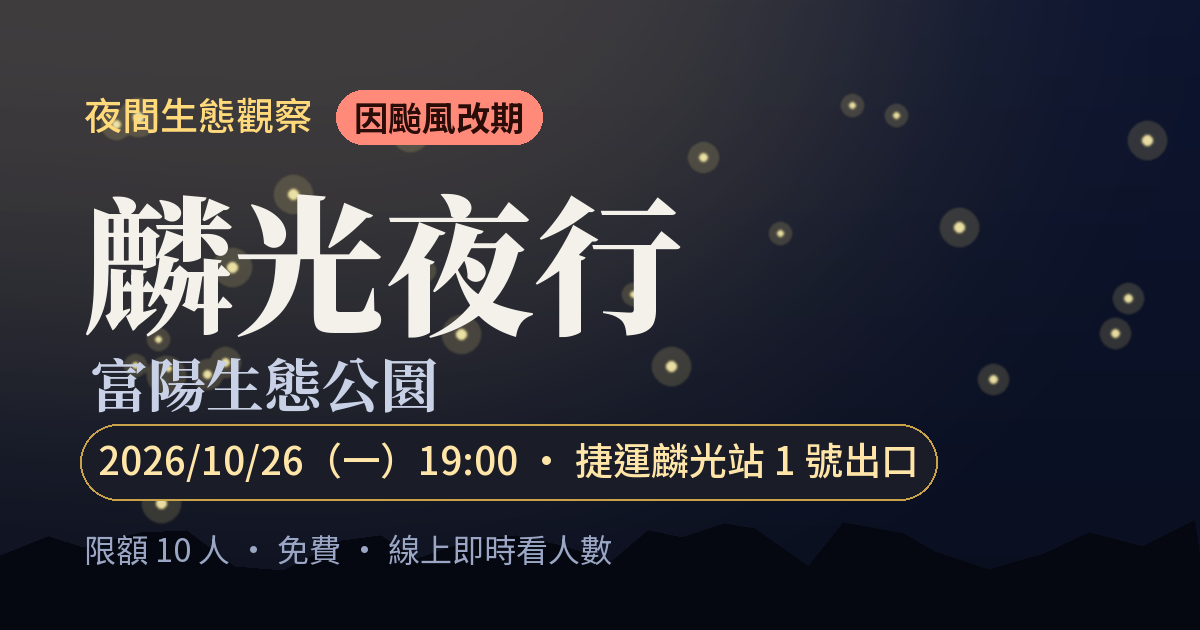
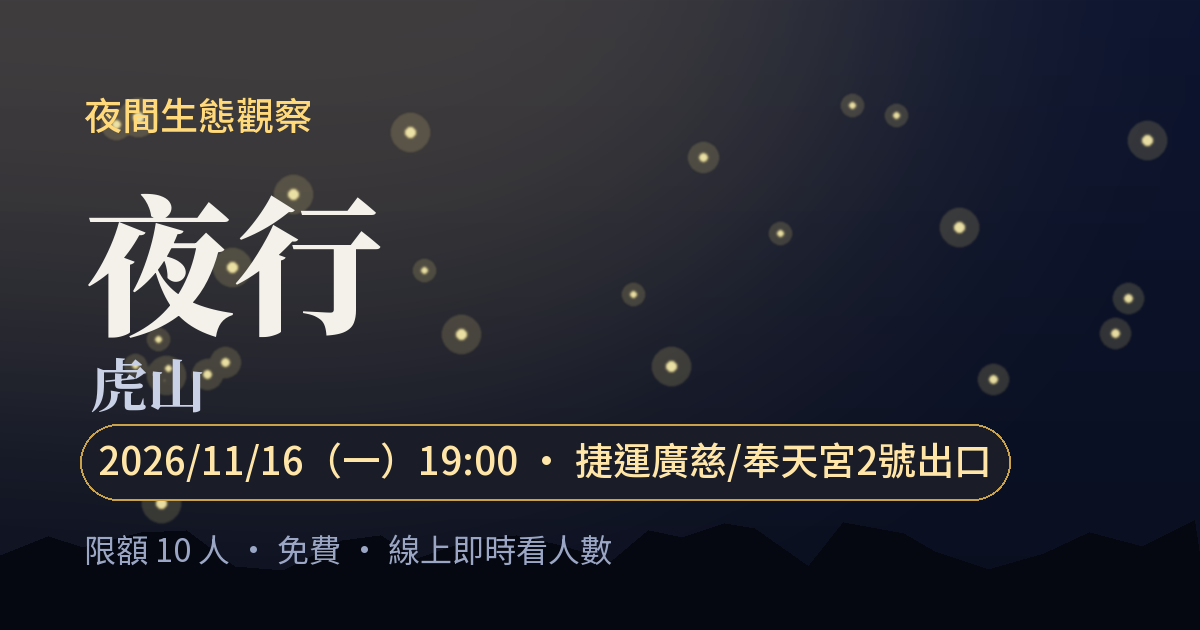
Switch to event 2 (11/16 虎山) and rename the series to 夜行
Regenerate og.png, event.ics and the share text from the sheet, and
update the page's pre-load fallback text to the new meeting point and
route. Rename 麟光夜行 to 夜行 in the page, docs and tool defaults; the
Code.gs defaults are left alone so the backend needs no redeploy.

diff --git a/index.html b/index.html
@@ -3,17 +3,17 @@
 <head>
   <meta charset="utf-8">
   <meta name="viewport" content="width=device-width, initial-scale=1, viewport-fit=cover">
-  <title>麟光夜行・富陽生態公園｜線上報名</title>
-  <meta name="description" content="原 10/23 因颱風改期。捷運麟光站 1 號出口集合，夜訪富陽自然生態公園。限額 10 人・免費・線上報名即時看人數。">
+  <title>夜行・虎山｜線上報名</title>
+  <meta name="description" content="捷運廣慈/奉天宮2號出口集合，夜訪虎山登山步道。限額 10 人・免費・線上報名即時看人數。">
   <meta name="theme-color" content="#0a0f1f">
 
   <!-- LINE / 社群分享預覽（LINE 不會執行 JavaScript，這裡要寫死） -->
   <meta property="og:type" content="website">
-  <meta property="og:site_name" content="麟光夜行">
-  <meta property="og:title" content="麟光夜行・富陽生態公園｜10/26（一）19:00（因颱風改期）">
-  <meta property="og:description" content="原 10/23 因颱風改期。捷運麟光站 1 號出口集合，夜訪富陽自然生態公園。限額 10 人・免費・線上報名即時看人數。">
+  <meta property="og:site_name" content="夜行">
+  <meta property="og:title" content="夜行・虎山｜11/16（一）19:00">
+  <meta property="og:description" content="捷運廣慈/奉天宮2號出口集合，夜訪虎山登山步道。限額 10 人・免費・線上報名即時看人數。">
   <meta property="og:url" content="https://wang-yi-zhang.github.io/night-walk/">
-  <meta property="og:image" content="https://wang-yi-zhang.github.io/night-walk/og.png?v=17ddad83aa">
+  <meta property="og:image" content="https://wang-yi-zhang.github.io/night-walk/og.png?v=d0fdd10c3a">
   <meta property="og:image:width" content="1200">
   <meta property="og:image:height" content="630">
   <meta name="twitter:card" content="summary_large_image">
@@ -32,7 +32,7 @@
     <div class="fireflies" aria-hidden="true"><i></i><i></i><i></i><i></i><i></i><i></i><i></i></div>
     <div class="hero-inner">
       <p class="kicker"><span data-field="kicker">夜間生態觀察</span></p>
-      <h1 class="title"><span data-field="title-main">麟光夜行</span><small data-field="title-sub">富陽生態公園</small></h1>
+      <h1 class="title"><span data-field="title-main">夜行</span><small data-field="title-sub">虎山</small></h1>
       <p class="when"><span data-field="when">2026/10/26（一）19:00–21:00</span></p>
     </div>
     <svg class="treeline" viewBox="0 0 1200 120" preserveAspectRatio="none" aria-hidden="true">
@@ -141,7 +141,7 @@
         <dl class="ticket">
           <div><dt>暱稱</dt><dd id="ticket-nickname"></dd></div>
           <div><dt>時間</dt><dd data-field="when">2026/10/26（一）19:00–21:00</dd></div>
-          <div><dt>集合</dt><dd data-field="place">捷運麟光站 1 號出口</dd></div>
+          <div><dt>集合</dt><dd data-field="place">捷運廣慈/奉天宮2號出口</dd></div>
         </dl>
         <div class="cal-buttons" data-cal></div>
         <p class="screenshot-tip">📸 建議截圖本畫面。如需取消，請 LINE 或 Email 主辦。</p>
@@ -154,8 +154,8 @@
       <h2 id="info-h" class="eyebrow">活動資訊</h2>
       <dl class="info-list">
         <div><dt>時間</dt><dd data-field="when">2026/10/26（一）19:00–21:00</dd></div>
-        <div><dt>集合</dt><dd><span data-field="place">捷運麟光站 1 號出口</span> <a id="map-link" class="inline-link" href="https://www.google.com/maps/search/?api=1&amp;query=%E6%8D%B7%E9%81%8B%E9%BA%9F%E5%85%89%E7%AB%99%201%E8%99%9F%E5%87%BA%E5%8F%A3" target="_blank" rel="noopener">地圖 ↗</a></dd></div>
-        <div><dt>路線</dt><dd data-field="route">富陽自然生態公園</dd></div>
+        <div><dt>集合</dt><dd><span data-field="place">捷運廣慈/奉天宮2號出口</span> <a id="map-link" class="inline-link" href="https://maps.app.goo.gl/PW6KmsauQ44ceopa7" target="_blank" rel="noopener">地圖 ↗</a></dd></div>
+        <div><dt>路線</dt><dd data-field="route">虎山登山步道</dd></div>
         <div><dt>費用</dt><dd data-field="fee">免費</dd></div>
         <div><dt>截止</dt><dd data-field="deadline">10/26（一）12:00</dd></div>
       </dl>
@@ -191,7 +191,7 @@
   </main>
 
   <footer class="foot">
-    <p>🌙 麟光夜行・夜間生態觀察</p>
+    <p>🌙 夜行・夜間生態觀察</p>
   </footer>
 </body>
 </html>

diff --git a/mock-api.js b/mock-api.js
@@ -4,7 +4,7 @@ window.NightWalkMock = function (scenario) {
 
   const settings = {
     id: '2026-10-26',
-    name: '麟光夜行・富陽生態公園',
+    name: '夜行・富陽生態公園',
     title: '第 1 場',
     date: '2026-10-26',
     start: '19:00',

diff --git a/style.css b/style.css
@@ -1,4 +1,4 @@
-/* 麟光夜行 — 深色夜觀風 */
+/* 夜行 — 深色夜觀風 */
 
 :root {
   --bg: #0a0f1f;

diff --git a/tools/make_ics.py b/tools/make_ics.py
@@ -42,7 +42,7 @@ def main():
     ap.add_argument('--date', required=True, help='YYYY-MM-DD，與試算表「活動日期」相同')
     ap.add_argument('--start', default='19:00')
     ap.add_argument('--end', default='21:00')
-    ap.add_argument('--title', default='麟光夜行・富陽生態公園')
+    ap.add_argument('--title', default='夜行・富陽生態公園')
     ap.add_argument('--place', default='捷運麟光站 1 號出口')
     ap.add_argument('--route', default='富陽自然生態公園')
     ap.add_argument('--bring', default='手電筒、長袖長褲、鞋子（建議雨鞋）、愉快的心情')

diff --git a/tools/make_og.py b/tools/make_og.py
@@ -30,7 +30,7 @@ def font(name, size, variation):
 
 def main():
     ap = argparse.ArgumentParser()
-    ap.add_argument('--title', default='麟光夜行')
+    ap.add_argument('--title', default='夜行')
     ap.add_argument('--subtitle', default='富陽生態公園')
     ap.add_argument('--kicker', default='夜間生態觀察')
     ap.add_argument('--date', required=True, help='例如 2026/10/26（一）')

diff --git a/README.md b/README.md
@@ -1,4 +1,4 @@
-# 麟光夜行・線上報名
+# 夜行・線上報名
 
 夜間生態觀察活動的報名網頁。
 
@@ -16,18 +16,18 @@
 ## 一、第一次部署（約 10 分鐘）
 
 ### 1. 建立試算表
-1. 到 [Google 試算表](https://sheets.new) 建立一份新的試算表，命名為「麟光夜行報名」。
+1. 到 [Google 試算表](https://sheets.new) 建立一份新的試算表，命名為「夜行報名」。
 2. 點選上方選單 **擴充功能 → Apps Script**。
 
 ### 2. 貼上程式碼
 1. 刪除 Apps Script 編輯器裡原本的 `function myFunction() {...}`。
 2. 打開本 repo 的 [`apps-script/Code.gs`](apps-script/Code.gs)，**全選複製**後貼上。
-3. 按 💾 儲存。專案名稱可以取「麟光夜行報名」。
+3. 按 💾 儲存。專案名稱可以取「夜行報名」。
 
 ### 3. 執行初始化並授權
 1. 在上方工具列的函式下拉選單選擇 **`setup`**，按 **▶ 執行**。
 2. 跳出「需要授權」時，按 **審查權限**，選擇你的帳號（hemoparasite@gmail.com）。
-3. 看到「**Google 尚未驗證這個應用程式**」是正常的，因為這個應用程式就是你自己建立的。按左下角 **進階**，再按 **前往「麟光夜行報名」（不安全）**。
+3. 看到「**Google 尚未驗證這個應用程式**」是正常的，因為這個應用程式就是你自己建立的。按左下角 **進階**，再按 **前往「夜行報名」（不安全）**。
 4. **確認權限清單只有以下兩項**，再按「允許」：
    - 查看及管理已安裝此應用程式的試算表
    - 以你的名義傳送電子郵件
@@ -116,7 +116,7 @@ npm test
 
 **想停用或撤銷授權時：**
 - 停用網頁：Apps Script → 部署 → 管理部署作業 → 封存
-- 撤銷授權：[Google 帳戶 → 第三方存取權](https://myaccount.google.com/permissions) → 找到「麟光夜行報名」→ 移除存取權
+- 撤銷授權：[Google 帳戶 → 第三方存取權](https://myaccount.google.com/permissions) → 找到「夜行報名」→ 移除存取權
 
 ---
 

diff --git a/SPEC.md b/SPEC.md
@@ -1,4 +1,4 @@
-# 規格書：麟光夜行線上報名系統
+# 規格書：夜行線上報名系統
 
 > 狀態：**已上線**（2026-10-16 首次上線；2026-10-19 加入 LINE ID／IG 聯絡方式、設定檢查、預覽圖同步工具）
 > 用語定義見 [GLOSSARY.md](GLOSSARY.md)；主要設計決策的理由見 [docs/adr/](docs/adr/)。
@@ -8,7 +8,7 @@
 
 ## 問題陳述（Problem Statement）
 
-主辦者不定期舉辦小型、免費的夜間生態觀察活動（例如「麟光夜行・富陽生態公園」，捷運麟光站集合，每場限額約 10 人），主要在 LINE 群組宣傳。
+主辦者不定期舉辦小型、免費的夜間生態觀察活動（例如「夜行・富陽生態公園」，捷運麟光站集合，每場限額約 10 人），主要在 LINE 群組宣傳。
 
 主辦者遇到的問題：
 

diff --git a/GLOSSARY.md b/GLOSSARY.md
@@ -1,4 +1,4 @@
-# 麟光夜行報名
+# 夜行報名
 
 小型、免費的夜間生態觀察活動的線上報名：報名者在網頁上報名、看即時人數，主辦者在試算表裡管理名單和活動設定。
 
@@ -24,7 +24,7 @@ _避免_：開發者
 
 **場次**：
 一次活動。網頁一次只顯示一個場次，也就是「目前場次」。
-_避免_：活動（「活動」指整個系列，例如「麟光夜行」）、梯次
+_避免_：活動（「活動」指整個系列，例如「夜行」）、梯次
 
 **場次代碼**：
 場次的內部編號，決定哪些報名屬於哪一場。不會顯示在網頁上。
